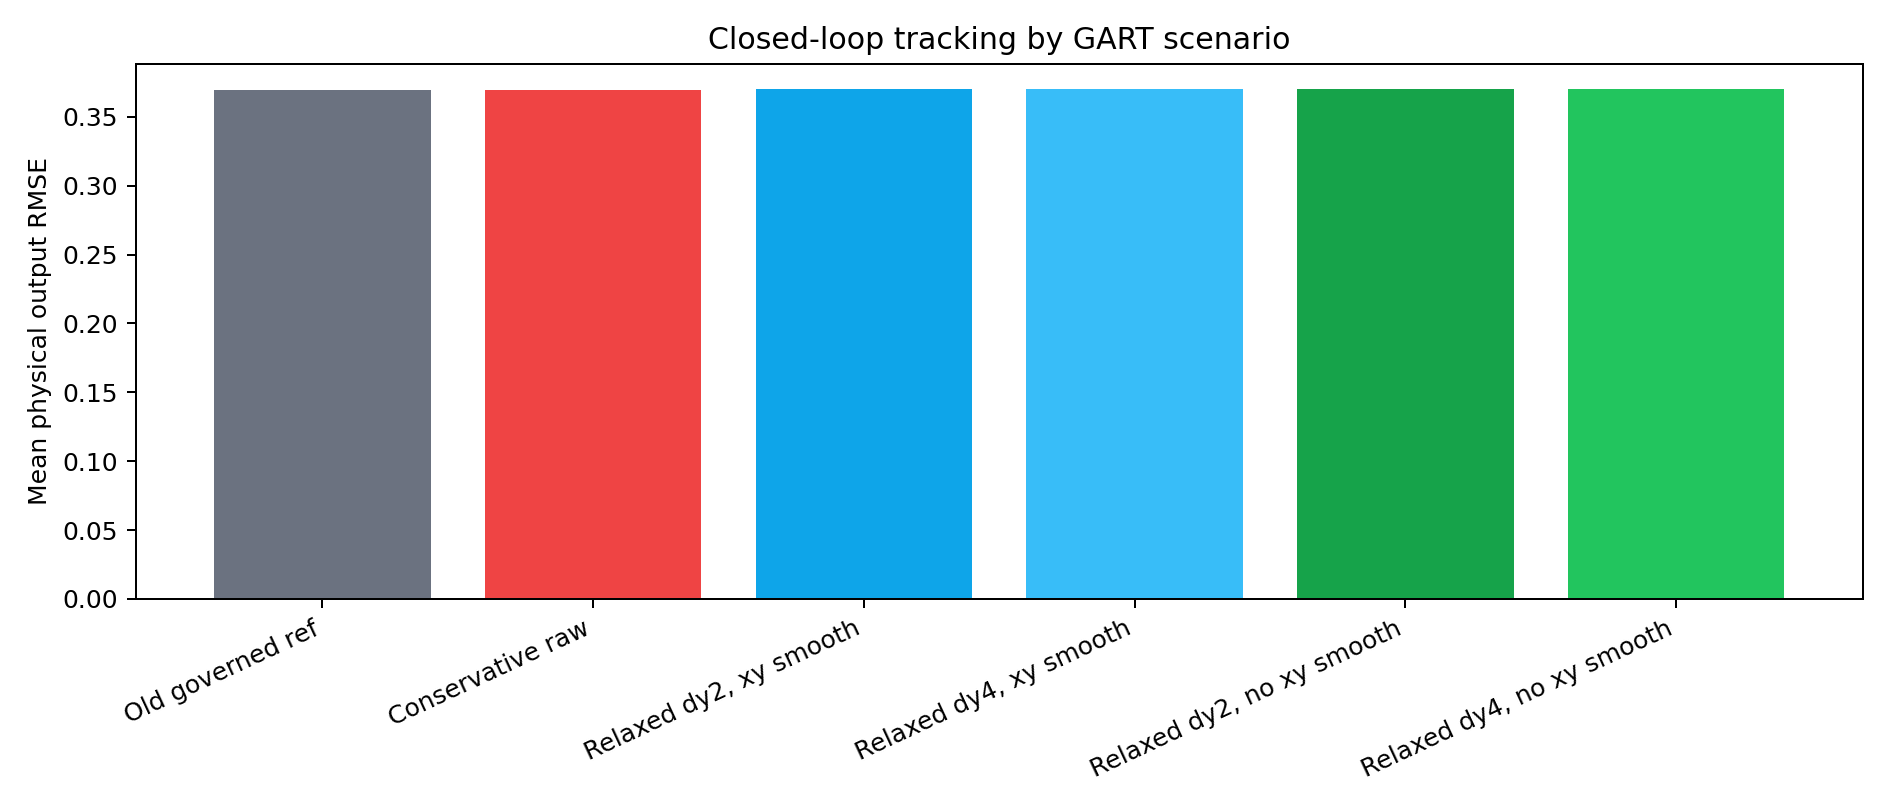
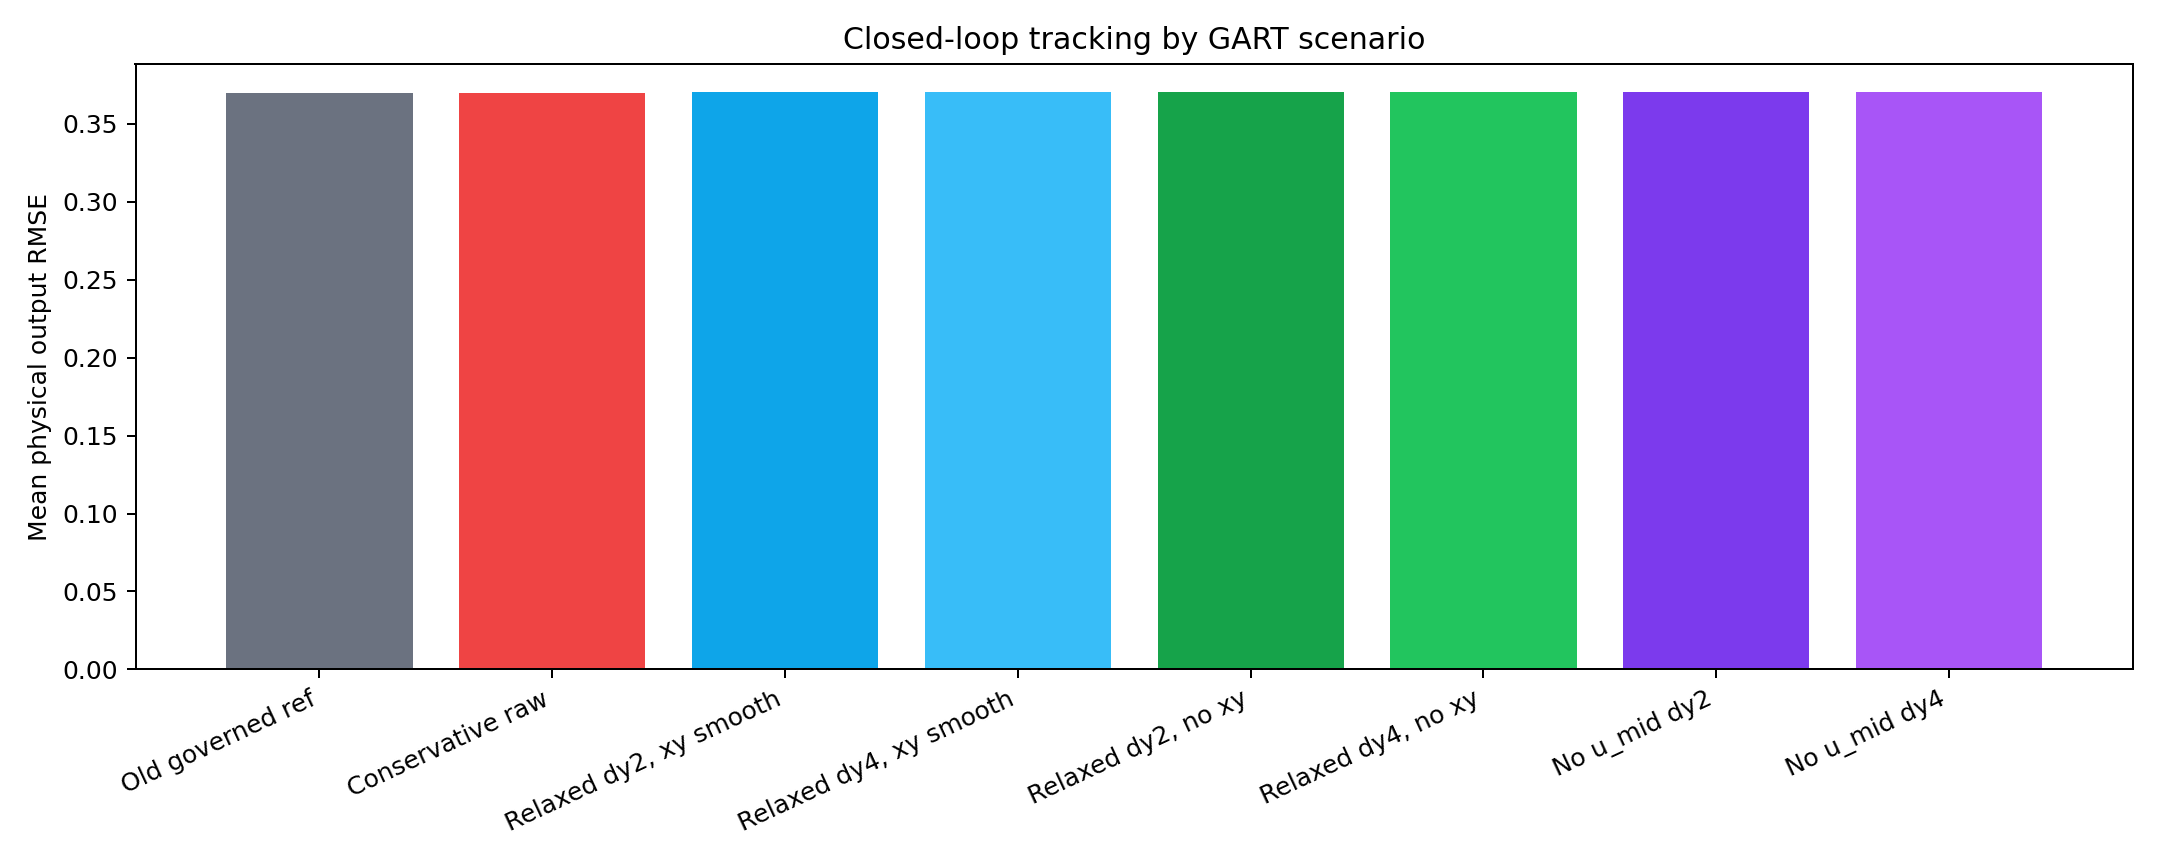
Update GART scenario report for no-u-mid run

diff --git a/report/gart_lmpc_post_patch_disturbance_run_2026-06-14.md b/report/gart_lmpc_post_patch_disturbance_run_2026-06-14.md
@@ -6,9 +6,9 @@ This report rewrites the earlier post-patch run note into a scenario-level analy
 
 Move forward with:
 
-`gart_target_raw_no_dx_headroom_0p01_dy2`
+`gart_target_raw_no_dx_headroom_0p01_dy2_no_umid`
 
-using the latest no-`x_s/y_s` smoothing configuration from `results/GARTLMPC/20260614_134444`.
+using the latest no-`x_s/y_s` smoothing and no-`u_mid` tie-breaker configuration from `results/GARTLMPC/20260614_141830`.
 
 This is the best forward method because it fixes the main target-selector failure mode without changing the closed-loop tracking objective:
 
@@ -20,6 +20,8 @@ This is the best forward method because it fixes the main target-selector failur
 - physical tracking RMSE remains close to the old governed-reference baseline.
 
 Do not move forward with mixed objective yet. Mixed objective still penalizes the controller toward `y_s/u_s`; when `y_s` is imperfect, mixed tracking pulls away from the raw setpoint. Raw objective is the stable path for RL safety integration.
+
+The no-`u_mid` run was nearly identical to the previous no-`x_s/y_s` run, so the midpoint term was not the dominant source of target conservatism. It is still cleaner to remove it for pretraining and online RL exploration because the only remaining stage-2 tie-breaker is now actuator-continuity smoothing to the actual previously applied input.
 
 ## Method Summary
 
@@ -34,8 +36,7 @@ Stage 2 stays inside the stage-1 primary-cost shell and applies only tie-breaker
 
 $$
 \min_{x_s,u_s}\;
-\|W_{\mathrm{mid}}(u_s-u_{\mathrm{mid}})\|_2^2
-+ \|W_u(u_s-u_{t-1})\|_2^2 .
+\|W_u(u_s-u_{t-1})\|_2^2 .
 $$
 
 The previous `x_s/y_s` smoothing terms are disabled for the forward cases:
@@ -44,6 +45,12 @@ $$
 \|W_x(x_s-x_{s,\mathrm{prev}})\|_2^2
 + \|W_y(y_s-y_{s,\mathrm{prev}})\|_2^2
 = 0.
+$$
+
+The midpoint input tie-breaker is also disabled:
+
+$$
+\|W_{\mathrm{mid}}(u_s-u_{\mathrm{mid}})\|_2^2 = 0.
 $$
 
 The MPC objective for the forward GART cases remains raw setpoint tracking:
@@ -192,6 +199,8 @@ Target quality:
 | relaxed dy2, no x/y smooth | 0.458 | 0.769 | 0.231 | `previous_applied_input` |
 | relaxed dy4, no x/y smooth | 0.458 | 0.769 | 0.231 | `previous_applied_input` |
 
+The following comparison figures include all scenarios through the final no-`u_mid` run.
+
 ![Tracking comparison](figures/gart_scenario_analysis_2026-06-14/closed_loop_rmse_by_scenario.png)
 
 ![Target mismatch comparison](figures/gart_scenario_analysis_2026-06-14/target_mismatch_by_scenario.png)
@@ -206,7 +215,51 @@ Interpretation:
 
 Decision:
 
-Use the dy2 no-`x_s/y_s` smoothing case as the forward controller. Keep dy4 as a sensitivity option, not the default, because it gives no meaningful tracking or target-quality benefit in these data.
+This case is viable and already clean enough for RL. The next case removes the remaining midpoint input tie-breaker to test whether the selector still needs any tie-breaker other than smoothing to the actual previous input.
+
+## Case Study 5: Relaxed Target With No X/Y Smoothing And No U-Mid
+
+Run:
+
+- `results/GARTLMPC/20260614_141830`
+
+Configuration:
+
+- `input_headroom_frac = 0.01`
+- `dx_s_max = None`
+- `dy_rate_scale = 2.0` or `4.0`
+- `W_u_smooth_diag = [1.0, 1.0]`
+- `W_x_smooth_diag = [0.0, ..., 0.0]`
+- `W_y_smooth_diag = [0.0, 0.0]`
+- `W_u_mid_diag = [0.0, 0.0]`
+- stage-2 input smoothing source: `previous_applied_input`
+- contraction probe required
+- raw objective only: `eta_y = 0.0`, `eta_u = 0.0`
+
+Performance:
+
+| Case | Reward Mean | Output RMSE | Target Mean | Target Max | Hold Rate |
+|---|---:|---:|---:|---:|---:|
+| no `u_mid` dy2 | -4.157946 | 0.370104 | 0.561271 | 4.958675 | 0.000 |
+| no `u_mid` dy4 | -4.157946 | 0.370104 | 0.561353 | 4.958675 | 0.000 |
+
+Target quality:
+
+| Case | Good | Acceptable | Unreachable | Stage-2 Smoothing |
+|---|---:|---:|---:|---|
+| no `u_mid` dy2 | 0.458 | 0.769 | 0.231 | `previous_applied_input` |
+| no `u_mid` dy4 | 0.458 | 0.769 | 0.231 | `previous_applied_input` |
+
+Interpretation:
+
+- Removing `u_mid` did not materially change tracking, target mismatch, hold rate, or contraction reliability.
+- Therefore, the midpoint tie-breaker was not the dominant source of conservatism.
+- The no-`u_mid` form is still preferable for pretraining and RL exploration because the only remaining stage-2 tie-breaker is actuator continuity relative to the actual plant input.
+- Dy4 again gives no meaningful advantage over dy2.
+
+Decision:
+
+Use `gart_target_raw_no_dx_headroom_0p01_dy2_no_umid` as the forward controller. Keep dy4 as a sensitivity option, not the default, because it gives no meaningful tracking or target-quality benefit in these data.
 
 ## Cross-Scenario Summary
 
@@ -218,6 +271,8 @@ Use the dy2 no-`x_s/y_s` smoothing case as the forward controller. Keep dy4 as a
 | relaxed dy4, x/y smooth | `20260614_133147` | -4.157946 | 0.370104 | 0.562021 | 1.000 | 1.000 |
 | relaxed dy2, no x/y smooth | `20260614_134444` | -4.157946 | 0.370104 | 0.561282 | 1.000 | 1.000 |
 | relaxed dy4, no x/y smooth | `20260614_134444` | -4.157946 | 0.370104 | 0.561340 | 1.000 | 1.000 |
+| no `u_mid` dy2 | `20260614_141830` | -4.157946 | 0.370104 | 0.561271 | 1.000 | 1.000 |
+| no `u_mid` dy4 | `20260614_141830` | -4.157946 | 0.370104 | 0.561353 | 1.000 | 1.000 |
 
 Target quality summary:
 
@@ -228,13 +283,15 @@ Target quality summary:
 | relaxed dy4, x/y smooth | 0.458 | 0.769 | 0.231 | 0.000 |
 | relaxed dy2, no x/y smooth | 0.458 | 0.769 | 0.231 | 0.000 |
 | relaxed dy4, no x/y smooth | 0.458 | 0.769 | 0.231 | 0.000 |
+| no `u_mid` dy2 | 0.458 | 0.769 | 0.231 | 0.000 |
+| no `u_mid` dy4 | 0.458 | 0.769 | 0.231 | 0.000 |
 
 ## What Is Okay To Go Forward
 
 Recommended forward method:
 
 ```text
-gart_target_raw_no_dx_headroom_0p01_dy2
+gart_target_raw_no_dx_headroom_0p01_dy2_no_umid
 ```
 
 with:
@@ -246,6 +303,7 @@ dy_rate_scale = 2.0
 W_u_smooth_diag = [1.0, 1.0]
 W_x_smooth_diag = zeros
 W_y_smooth_diag = zeros
+W_u_mid_diag = zeros
 stage2_u_smooth_source = previous_applied_input
 eta_y = 0.0
 eta_u = 0.0
@@ -260,6 +318,7 @@ Why this is the forward method:
 - It keeps the performance objective aligned with the raw setpoint.
 - It fixes the target hold issue.
 - It avoids using `x_s/y_s` smoothing as an artificial prior during random or aggressive references.
+- It removes the midpoint input prior, leaving only physical actuator-continuity smoothing to `u_{t-1}`.
 - It preserves good numerical reliability.
 
 Do not move forward with:
@@ -270,7 +329,7 @@ Do not move forward with:
 
 ## Next Steps
 
-1. Use `gart_target_raw_no_dx_headroom_0p01_dy2` as the default GART-LMPC controller.
+1. Use `gart_target_raw_no_dx_headroom_0p01_dy2_no_umid` as the default GART-LMPC controller.
 2. Run the same configuration under RL exploration, but keep the MPC objective raw and use the GART target only for certification.
 3. Add RL diagnostics for:
    - target accepted/usable rate
@@ -279,5 +338,4 @@ Do not move forward with:
    - first-step contraction margin
    - input movement
    - safety fallback/refusal rate
-4. Only revisit mixed objective after the RL closed-loop target-quality logs remain close to the dy2 no-`x_s/y_s` smoothing results.
-
+4. Only revisit mixed objective after the RL closed-loop target-quality logs remain close to the dy2 no-`x_s/y_s`/no-`u_mid` smoothing results.

diff --git a/change-reports/2026-06-14_gart_no_umid_scenario_report_update.md b/change-reports/2026-06-14_gart_no_umid_scenario_report_update.md
@@ -1,0 +1,53 @@
+# GART No-U-Mid Scenario Report Update
+
+Date: 2026-06-14
+
+## Summary
+
+Updated the GART-LMPC scenario analysis report after the full no-`u_mid` runs completed.
+
+Updated report:
+
+- `report/gart_lmpc_post_patch_disturbance_run_2026-06-14.md`
+
+Updated figures and metrics:
+
+- `report/figures/gart_scenario_analysis_2026-06-14/closed_loop_rmse_by_scenario.png`
+- `report/figures/gart_scenario_analysis_2026-06-14/target_mismatch_by_scenario.png`
+- `report/figures/gart_scenario_analysis_2026-06-14/hold_rate_by_scenario.png`
+- `report/figures/gart_scenario_analysis_2026-06-14/scenario_metrics.json`
+
+## New Run Analyzed
+
+Latest full closed-loop run:
+
+- `results/GARTLMPC/20260614_141830`
+
+Cases:
+
+- `gart_target_raw_no_dx_headroom_0p01_dy2_no_umid`
+- `gart_target_raw_no_dx_headroom_0p01_dy4_no_umid`
+
+## Main Finding
+
+Removing the `u_mid` tie-breaker did not materially change the closed-loop metrics relative to the previous no-`x_s/y_s` smoothing run:
+
+- solver success remained `1.0`
+- hard contraction remained `1.0`
+- hold rate remained `0.0`
+- acceptable target rate remained about `0.769`
+- mean target mismatch remained about `0.561`
+- output RMSE remained about `0.370104`
+
+The no-`u_mid` version is still the recommended forward path because it is the cleanest target selector for pretraining and RL exploration: the only remaining stage-2 regularization is smoothing `u_s` toward the actually applied input `u_{t-1}`.
+
+## Updated Recommendation
+
+Move forward with:
+
+```text
+gart_target_raw_no_dx_headroom_0p01_dy2_no_umid
+```
+
+Keep dy4 as sensitivity only, and keep mixed objective disabled until target-quality logs remain strong under RL exploration.
+
